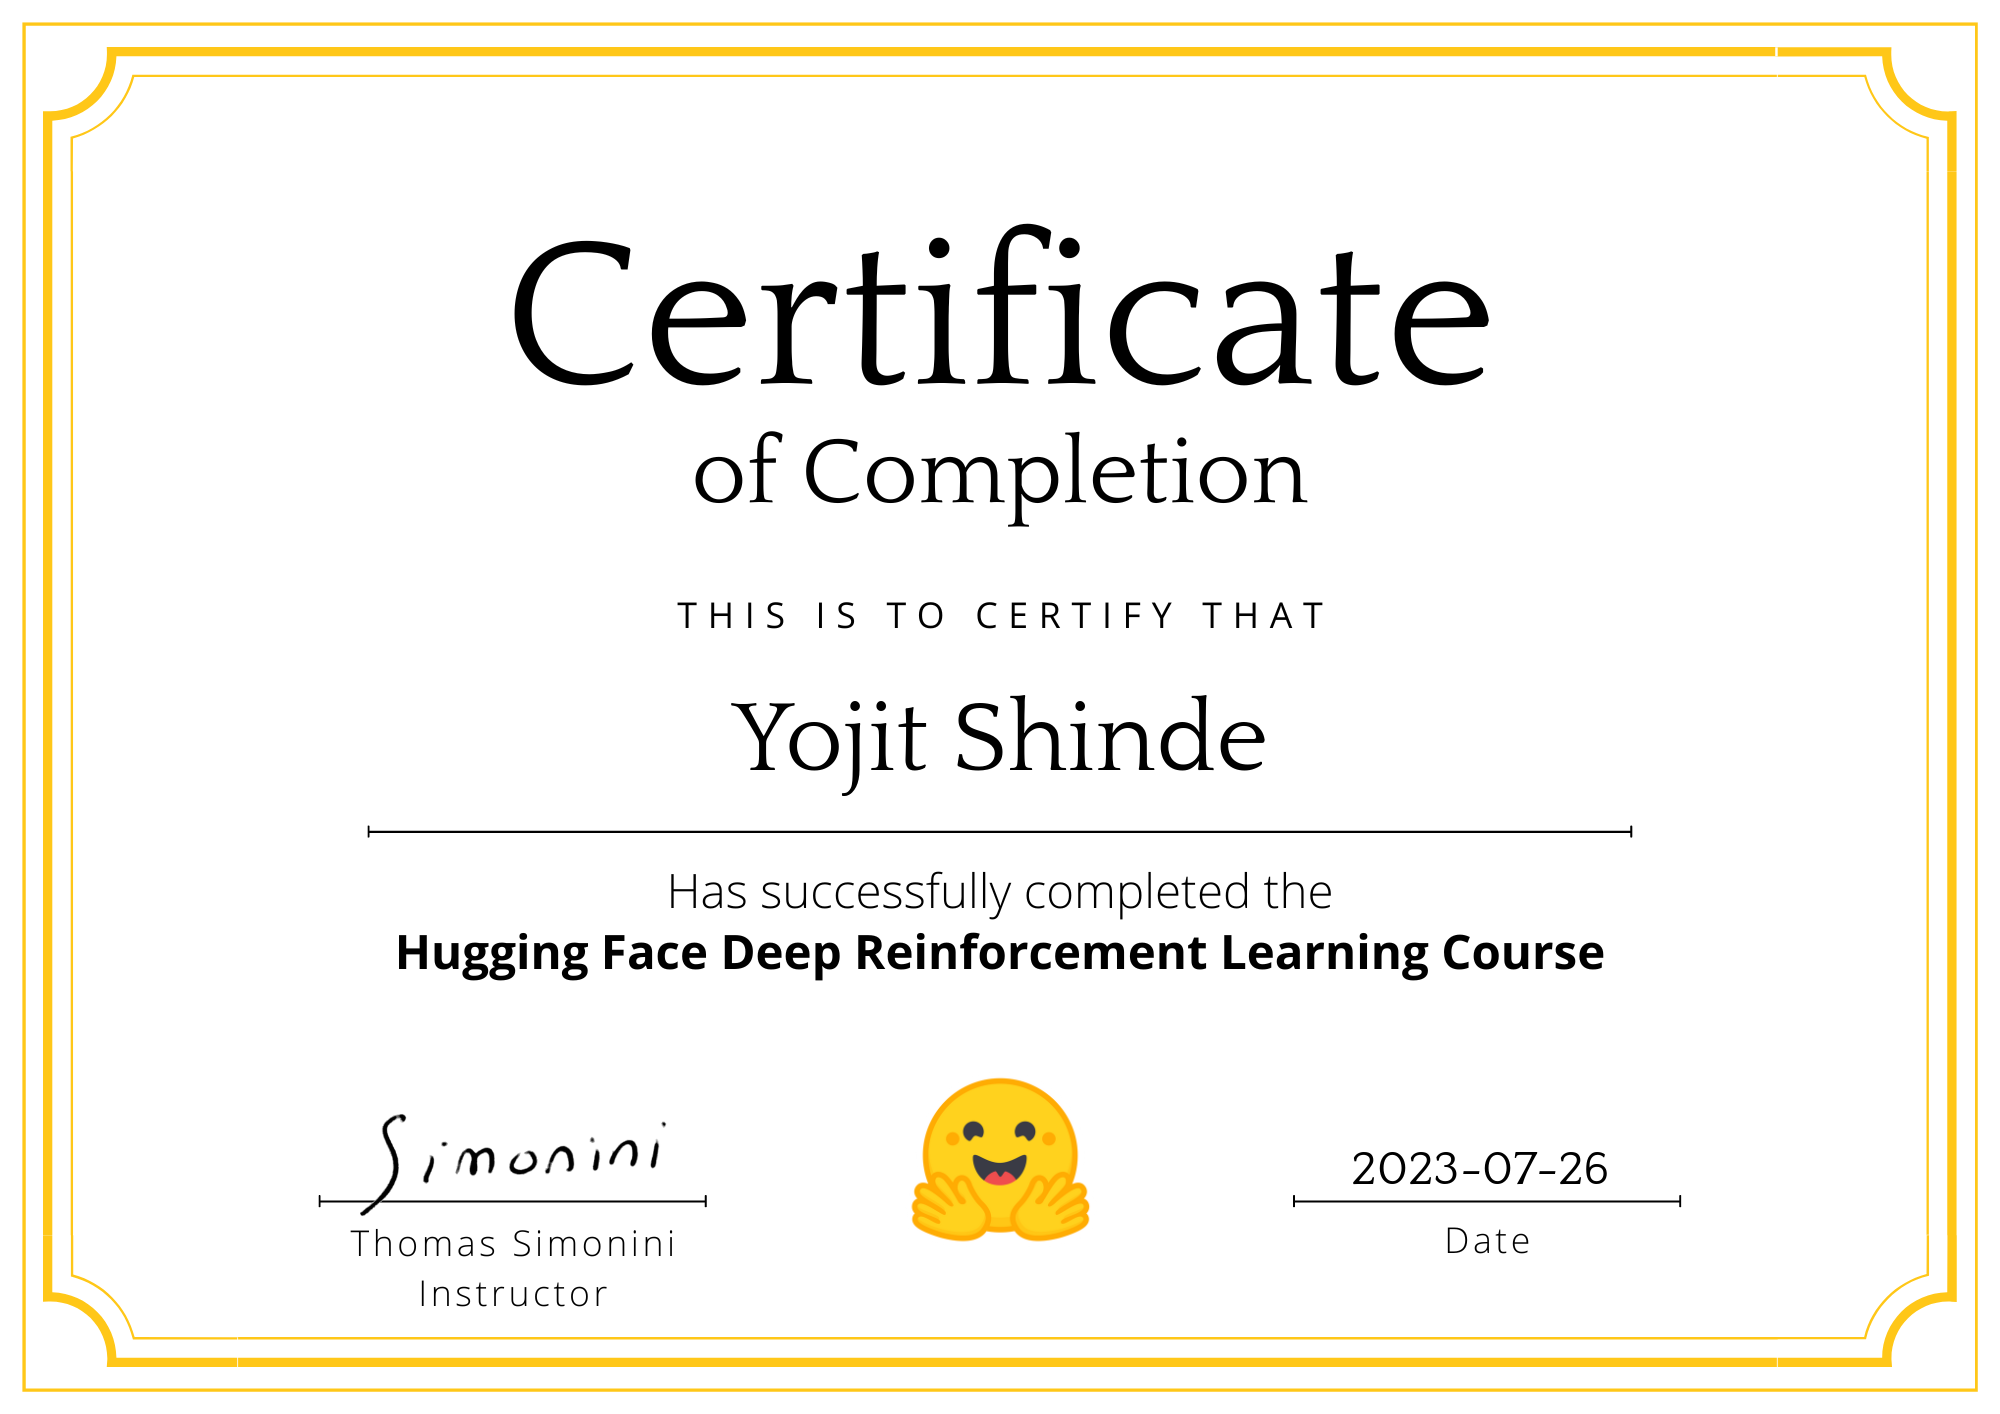
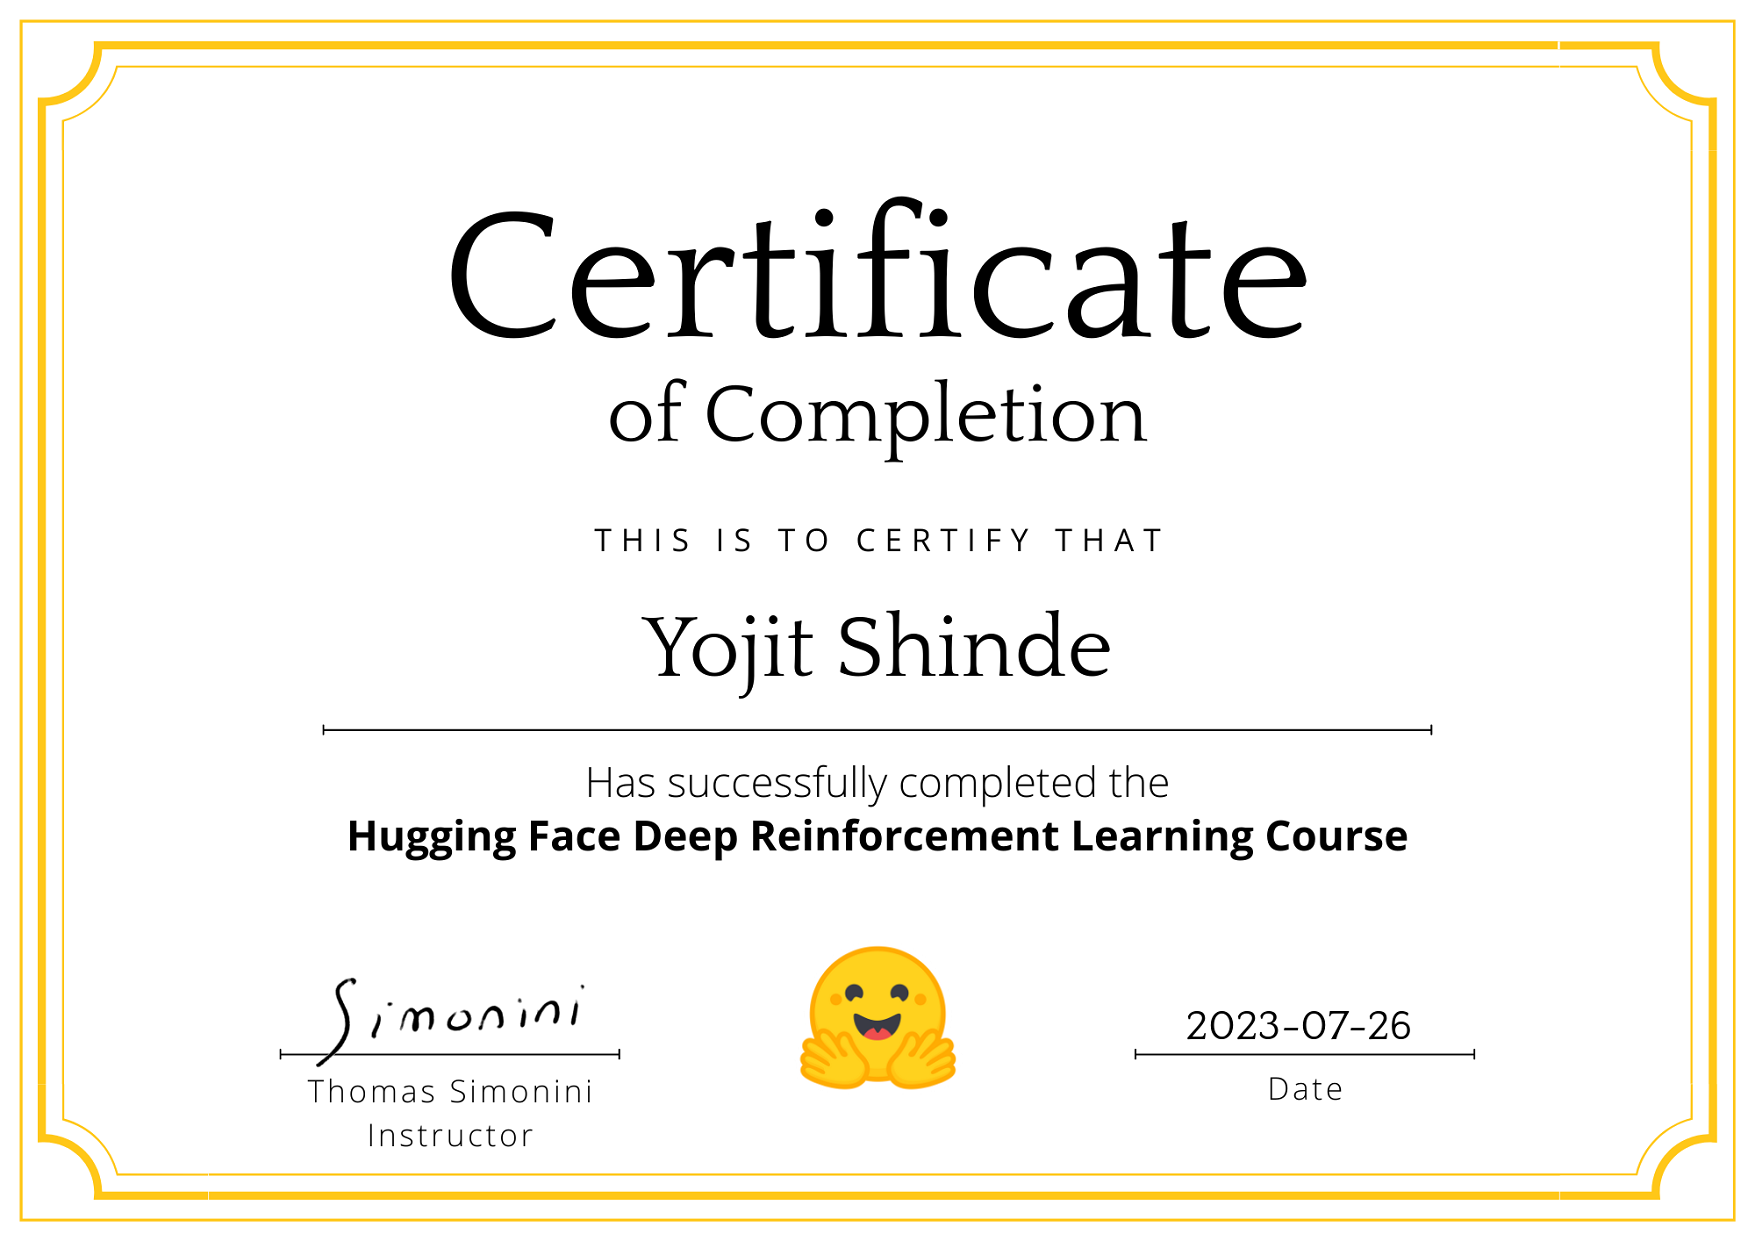
cert added, education-section and work-section modified

diff --git a/index.html b/index.html
@@ -76,6 +76,7 @@
                             </div>
                             <ul>
                                 <li>Worked on the company's recruitment portal, automating the entire candidate onboarding procedure.</li>
+                                <li>Worked with AngularJS, Springboot, Oracle Database.</li>
                                 <li>Improved the front-end design.</li>
                                 <li>Worked with Rest APIs.</li>
                                 <li>Helped other interns in debugging.</li>
@@ -90,7 +91,7 @@
             <!-- Education-->
             <section class="resume-section" id="education">
                 <div class="resume-section-content">
-                    <h2 class="mb-5">Education</h2>
+                    <h2 class="mb-5">Education</h2><br>
                     <div data-aos="flip-down" class="d-flex flex-column flex-md-row justify-content-start mb-5">
                         <div class="flex-row-reverse" style="margin-right: 3rem;">
                             <div>
@@ -98,9 +99,11 @@
                             </div>
                         </div>
                         <div class="flex-shrink-0"><span class="text-dark">June 2020 - May 2023</span><h3 class="mb-0">St. Xaviers College (Autonomous)</h3>
-                            <div class="subheading mb-3">Bachelor of Science: <span style="color: black;">Information Technology</span></div></div>
+                            <div class="subheading mb-3">Bachelor of Science: <span style="color: black;">Information Technology</span></div>
+                            <div class="subheading mb-3">Grade: <span style="color: black;">8.34/10.0</span></div>
+                        </div>
                     </div>
-                    <div data-aos="flip-down" class="d-flex flex-column flex-md-row justify-content-start mb-5">
+                    <!-- <div data-aos="flip-down" class="d-flex flex-column flex-md-row justify-content-start mb-5">
                         <div class="flex-row-reverse" style="margin-right: 3rem;">
                             <div>
                                 <span class="d-none d-lg-block"><img class="img-fluid img-profile mx-auto mb-2" src="assets/img/rajhans-icon.jpg" style="width: 10rem;" alt="..." /></span>
@@ -117,7 +120,7 @@
                         </div>
                         <div class="flex-shrink-0"><span class="text-dark">April 2008 - March 2018</span><h3 class="mb-0">Ryan International (Goregoan)</h3>
                             <div class="subheading mb-3">Primary & Secondary Education: <span style="color: black;">ICSE</span></div></div>
-                    </div>
+                    </div> -->
                 </div>
             </section>
             <hr class="m-0" />
@@ -277,14 +280,13 @@
                 <div class="resume-section-content">
                     <h2 class="mb-5">Certifications</h2>
 
-                    <div class="d-flex flex-column flex-md-row justify-content-start mb-5">
-                        <div data-aos="fade-right" class="flex-row-reverse" style="margin-right: 3rem;">
-                            <div>
-                                <span class="d-none d-lg-block"><img class="img-fluid img-profile mx-auto mb-2 image" src="assets/img/YojitShinde-PythonBasics.jpg" style="width: 500px;" alt="..." /></span>
-                            </div>
+                    <div>
+                        <div data-aos="fade-right" style="width: 500px; display: inline-block; margin-bottom: 1rem; margin-right: 1rem;">
+                            <img class="d-block w-100 image" src="assets/img/YojitShinde-DeepReinforcementLearning.png" alt="Deep Reinforcement Learning">
                         </div>
-                        <div data-aos="fade-left" class="flex-shrink-0" style="margin-top: 1.2rem;"><span class="text-dark">May 2021 - June 2021</span><br><br><h3 class="mb-0"><a href="assets/img/YojitShinde-PythonBasics.jpg" style="color:#343a40;">Python Basics</a></h3>
-                            <div style="font-size: 1.3rem;">Associated with St. Xavier's College (Autonomous)<br>Professor: Rahul Katkam</div></div>
+                        <div data-aos="fade-left" style="width: 500px; display: inline-block; margin-bottom: 1rem; margin-right: 1rem;">
+                            <img class="d-block w-100 image" src="assets/img/YojitShinde-PythonBasics.jpg" alt="Python Basics">
+                        </div>
                     </div>
                 </div>
             </section>
